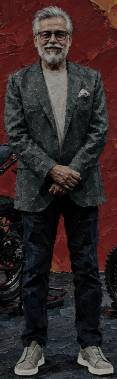
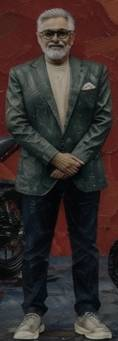
Extended backgrounds for visionary, golf, mentor and global; one set of background edges for every facet
Mentor and global are recut from their new paintings. On desktop the figure moves
left where needed so each painting reaches the screen's left edge, and the extended
paintings all fade at the same screen positions (top, bottom, right behind the text).

Claude-Session: https://claude.ai/code/session_011tDJ4uajGqNBzUiiqwHwYC

diff --git a/js/data.js b/js/data.js
@@ -3,7 +3,7 @@
 
 window.FACETS = [
[1 lines of base64/hex data omitted]
-    artSat: 1.4, artUnder: 0.7, artContrast: 1.16, artScene: { paint: true, natural: true, sat: 0.98, halo: { reach: 0.1, dark: -0.06, desat: 0.4, blur: 3 }, src: 'assets/leader-scene.jpg', x: -1.6504, y: -0.2634, w: 4.149, h: 1.4159 },   // the painting round him, shown faintly with a radial fade (desktop)
+    artSat: 1.4, artUnder: 0.7, artContrast: 1.16, artScene: { paint: true, natural: true, sat: 0.98, halo: { reach: 0.1, dark: -0.06, desat: 0.4, blur: 3 }, src: 'assets/leader-scene.jpg', x: -1.6504, y: -0.2634, w: 4.149, h: 1.4159 }, artWide: { paint: true, natural: true, sat: 0.98, halo: { reach: 0.1, dark: -0.06, desat: 0.4, blur: 3 }, src: 'assets/leader-wide.jpg', x: -0.5811, y: -0.2632, w: 4.74, h: 1.4159 },   // the painting round him, shown faintly with a radial fade (desktop)
     artHeads: [[0.5, 0.085, 0.11, 0.055], [0.52, 0.22, 0.115, 0.025]],   // his hair, and the Hero patch (finer words keep it crisp)
     feature: [['VISION', 0.5, 0.34, 0.66, 12], ['COURAGE', 0.5, 0.47, 0.56, 6], ['FUTURE', 0.5, 0.565, 0.42, 6], ['DRIVE', 0.31, 0.74, 0.16, 4, -3], ['GRIT', 0.68, 0.74, 0.16, 4, 3]],
     heads: [[0.45, 0.17, 0.2, 0.15]],
@@ -12,7 +12,7 @@ window.FACETS = [
     anchor: [0.84, 0.52],   // the detail the note's line points to
     story: ["A leader who pairs long-range vision with an unhurried calm: setting direction with conviction, then inviting everyone around him to grow into it.", "Colleagues speak less of the strategy than of the clarity: a sense that the destination was always visible to him, and that he wanted everyone to see it too."] },
[1 lines of base64/hex data omitted]
-    artScene: { paint: true, natural: true, src: 'assets/golf-scene.jpg', x: -0.7017, y: -0.1509, w: 2.9369, h: 1.2263 },   // the painting round him, shown faintly with a radial fade (desktop)
+    artScene: { paint: true, natural: true, src: 'assets/golf-scene.jpg', x: -0.7017, y: -0.1509, w: 2.9369, h: 1.2263 }, artWide: { paint: true, natural: true, src: 'assets/golf-wide.jpg', x: -0.1934, y: -0.151, w: 3.1921, h: 1.2265 },   // the painting round him, shown faintly with a radial fade (desktop)
     artHeads: [[0.635, 0.115, 0.075, 0.05]],
     feature: [['FOCUS', 0.72, 0.33, 0.32, 12, -6], ['PATIENCE', 0.71, 0.22, 0.3, 6, -6], ['PRECISION', 0.78, 0.5, 0.32, 6, 4]],
     heads: [[0.17, 0.12, 0.2, 0.1]],
@@ -28,18 +28,18 @@ window.FACETS = [
     ink: ['#BF5B76', '#4b2931'],
     line: "Before every title, he is a father, a husband and a grandfather.",
     story: ["The values he carries into every boardroom were shaped at home, and are still kept there.", "Family members describe a man who listens first, laughs easily and is never too busy to be present."] },
[1 lines of base64/hex data omitted]
-    artScene: { paint: true, natural: true, src: 'assets/mentor-scene.jpg', x: -0.9949, y: -0.186, w: 2.8205, h: 1.2839 },   // the painting round them, shown faintly with a radial fade (desktop)
-    artHeads: [[0.464, 0.093, 0.149, 0.068], [0.151, 0.513, 0.092, 0.04], [0.874, 0.536, 0.092, 0.04]],   // his face and hands, in finer words
[1 lines of base64/hex data omitted]
+    artScene: { paint: true, natural: true, src: 'assets/mentor-scene.jpg', x: -2.3444, y: -0.2266, w: 6.6225, h: 1.3703 }, artWide: { paint: true, natural: true, src: 'assets/mentor-wide.jpg', x: -2.3444, y: -0.2266, w: 6.6225, h: 1.3703 },   // the painting round them, shown faintly with a radial fade (desktop)
+    artHeads: [[0.47, 0.1, 0.15, 0.075], [0.166, 0.518, 0.092, 0.04], [0.877, 0.536, 0.092, 0.04]],   // his face and hands, in finer words
     feature: [],
     headScale: 1.1, headWeight: 600, heads: [[0.175, 0.203, 0.073, 0.145], [0.471, 0.151, 0.064, 0.145], [0.824, 0.221, 0.064, 0.156]],
     ink: ['#C9A227', '#594919'],
     line: "He believed in people before they believed in themselves.",
     anchor: [0.422, 0.568],   // the detail the note's line points to
     story: ["Generations of leaders remember a conversation, a nudge, a door held open at exactly the right moment.", "His greatest work may be the people he shaped, many of whom now lead in their own right."] },
[1 lines of base64/hex data omitted]
-    artUnder: 0.68, artContrast: 1.1, artScene: { paint: true, natural: true, halo: { reach: 0.09, dark: 0.04, desat: 0.55, blur: 3 }, src: 'assets/global-scene.jpg', x: -2.3675, y: -0.2823, w: 5.359, h: 1.6544 },   // the painting round him, shown faintly with a radial fade (desktop)
-    artHeads: [[0.436, 0.092, 0.132, 0.053], [0.556, 0.474, 0.209, 0.047]],
[1 lines of base64/hex data omitted]
+    artUnder: 0.68, artContrast: 1.1, artScene: { paint: true, natural: true, halo: { reach: 0.09, dark: 0.04, desat: 0.55, blur: 3 }, src: 'assets/global-scene.jpg', x: -0.865, y: -0.6481, w: 8.4388, h: 1.7522 }, artWide: { paint: true, natural: true, halo: { reach: 0.09, dark: 0.04, desat: 0.55, blur: 3 }, src: 'assets/global-wide.jpg', x: -0.865, y: -0.6481, w: 8.4388, h: 1.7522 },   // the painting round him, shown faintly with a radial fade (desktop)
+    artHeads: [[0.48, 0.098, 0.15, 0.07], [0.57, 0.485, 0.19, 0.045]],
     feature: [],
     headScale: 1.15, heads: [[0.27, 0.2, 0.1, 0.16], [0.69, 0.22, 0.095, 0.16]],
     ink: ['#3F72B5', '#233348'],

diff --git a/js/app.js b/js/app.js
@@ -157,6 +157,11 @@
         const zl = vw * 0.025, zr = vw * (state === 'hero' || state === 'final' ? 0.585 : 0.63);   // the opening note sits a little further left
         w = Math.min(zr - zl, (vh - hdr - 60) * (f.artScale || 1) * ar); h = w / ar;   // artScale: a figure standing smaller in its scene
         left = zl + (zr - zl - w) / 2; top = Math.max(hdr + 12, vh / 2 - h * 0.44);
+        // with the extended painting the figure moves left as far as it needs (never past the margin) for the painting to
+        // reach the screen's left edge, and the right one too where the painting is wide enough: every facet's background
+        // then runs off the same edges
+        const aw = f.artWide;
+        if (aw) { const lo = vw - (aw.x + aw.w) * w, hi = -aw.x * w; left = Math.max(zl, lo <= hi ? Math.min(Math.max(left, lo), hi) : Math.min(left, hi)); }
       }
       box = { w: Math.round(w), h: Math.round(h), top, left };
       Object.assign(el.style, { width: box.w + 'px', height: box.h + 'px', top: top + 'px', left: left + 'px' });
@@ -223,13 +228,19 @@
         // natural: the painting simply softens away on every side over a wide margin, the corners a little more, with no
         // centre to it, the way a painted scene fades into a dark wall
         const L = Math.max(ix, 0), Rr = Math.min(ix + iw, W2), T = Math.max(iy, 0), fw = (Rr - L) * 0.24, fh = (oy + bh - T) * 0.26;
-        if (wideOn) {   // the extended painting: soft at its own edges and the screen's right edge only, never cut off by the text
-          if (ix > 0) edge(L, 0, L + fw * 0.6, 0);
-          edge(Rr, 0, Rr - (Rr - L) * 0.08, 0); edge(0, T, 0, T + fh * 0.7);
-        } else { edge(L, 0, L + fw, 0); edge(Rr, 0, Rr - (Rr - L) * 0.4, 0); edge(0, T, 0, T + fh); }   // the side towards the text fades out furthest
-        const mx = (L + Rr) / 2, my = (T + oy + bh) / 2, rr = Math.hypot(Rr - L, oy + bh - T) * 0.62;
-        const cg = g.createRadialGradient(mx, my, 0, mx, my, rr); cg.addColorStop(0, '#000'); cg.addColorStop(0.72, '#000'); cg.addColorStop(1, 'rgba(0,0,0,0.25)');
-        g.fillStyle = cg; g.fillRect(0, 0, W2, H2);
+        if (wideOn) {
+          // the extended painting: the same fades, measured on the screen, for every facet: off the left edge, softly into the
+          // top and the bottom, and out at the right edge behind the text. Where a painting stops short of an edge it fades
+          // over the same distance from its own edge instead
+          const vwD = innerWidth * D, vhD = innerHeight * D, Bb = Math.min(iy + ih, H2);
+          if (ix > 0) edge(L, 0, L + vwD * 0.05, 0);
+          edge(Rr, 0, Rr - vwD * 0.08, 0); edge(0, T, 0, T + vhD * 0.14); edge(0, Bb, 0, Bb - vhD * 0.17);
+        } else {
+          edge(L, 0, L + fw, 0); edge(Rr, 0, Rr - (Rr - L) * 0.4, 0); edge(0, T, 0, T + fh);   // the side towards the text fades out furthest
+          const mx = (L + Rr) / 2, my = (T + oy + bh) / 2, rr = Math.hypot(Rr - L, oy + bh - T) * 0.62;
+          const cg = g.createRadialGradient(mx, my, 0, mx, my, rr); cg.addColorStop(0, '#000'); cg.addColorStop(0.72, '#000'); cg.addColorStop(1, 'rgba(0,0,0,0.25)');
+          g.fillStyle = cg; g.fillRect(0, 0, W2, H2);
+        }
       } else {
         const [grow, solidTo] = SC.oval || [1, 0.5];
         const rx = Math.min((bw * 0.44 + bh * 0.4) * grow, sxl * 0.98, Math.min(cx - ix, ix + iw - cx) * 1.02), ry = Math.min((bh * 0.56 + bw * 0.12) * grow, Math.min(cy - iy, iy + ih - cy) * 1.08);
@@ -237,8 +248,10 @@
         const rg = g.createRadialGradient(0, 0, 0, 0, 0, rx); rg.addColorStop(0, '#000'); rg.addColorStop(solidTo, solidTo > 0.5 ? '#000' : 'rgba(0,0,0,0.8)'); rg.addColorStop(1, 'rgba(0,0,0,0)');
         g.fillStyle = rg; g.fillRect(-rx, -rx, rx * 2, rx * 2); g.restore();
       }
-      const fy0 = oy + bh * (f.artFade || 0.86) - bh * 0.1, lg = g.createLinearGradient(0, fy0, 0, oy + bh); lg.addColorStop(0, '#000'); lg.addColorStop(1, 'rgba(0,0,0,0)');
-      g.fillStyle = lg; g.fillRect(0, 0, W2, H2);   // whole canvas: the gradient holds solid above the fade and clear below it
+      if (!wideOn) {   // (the extended painting has its own bottom fade, on the screen, above)
+        const fy0 = oy + bh * (f.artFade || 0.86) - bh * 0.1, lg = g.createLinearGradient(0, fy0, 0, oy + bh); lg.addColorStop(0, '#000'); lg.addColorStop(1, 'rgba(0,0,0,0)');
+        g.fillStyle = lg; g.fillRect(0, 0, W2, H2);   // whole canvas: the gradient holds solid above the fade and clear below it
+      }
       if (wideOn) {
         // behind the text the painting settles back a little, so the type stays easy to read on it
         const tx0 = (innerWidth * 0.5 - sbox.left) * D, tx1 = (innerWidth * 0.63 - sbox.left) * D;
